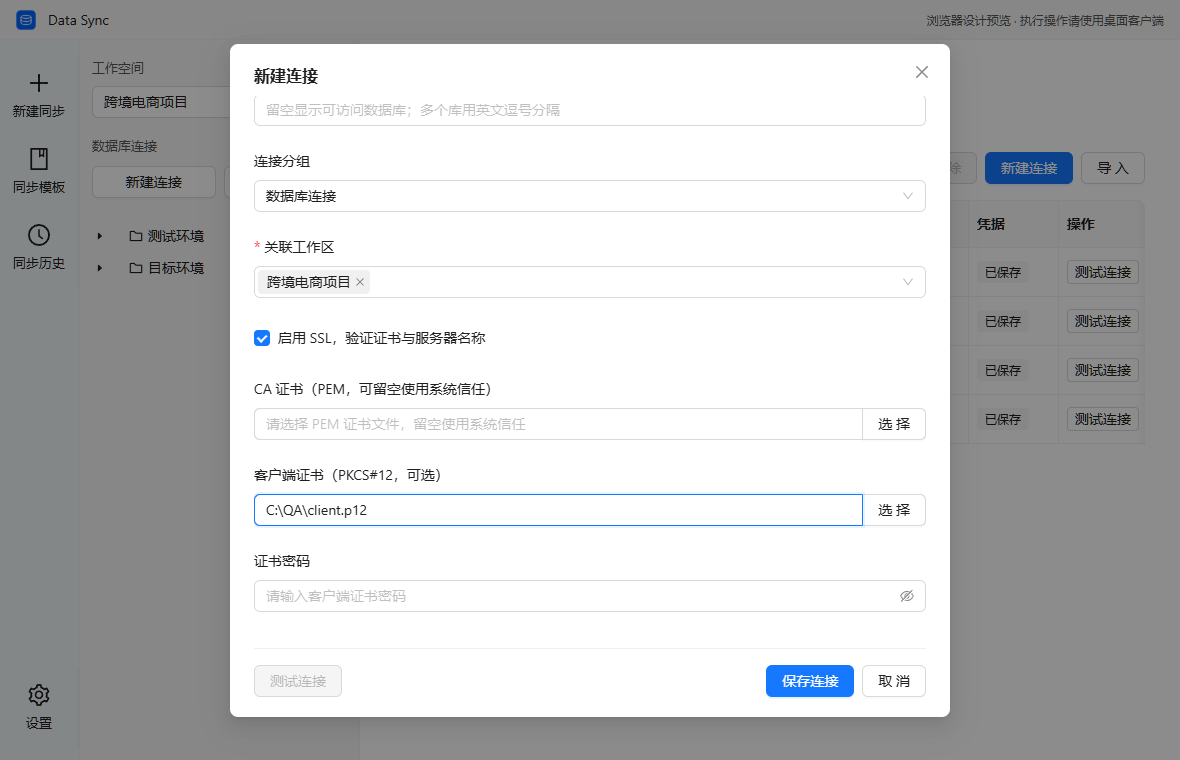
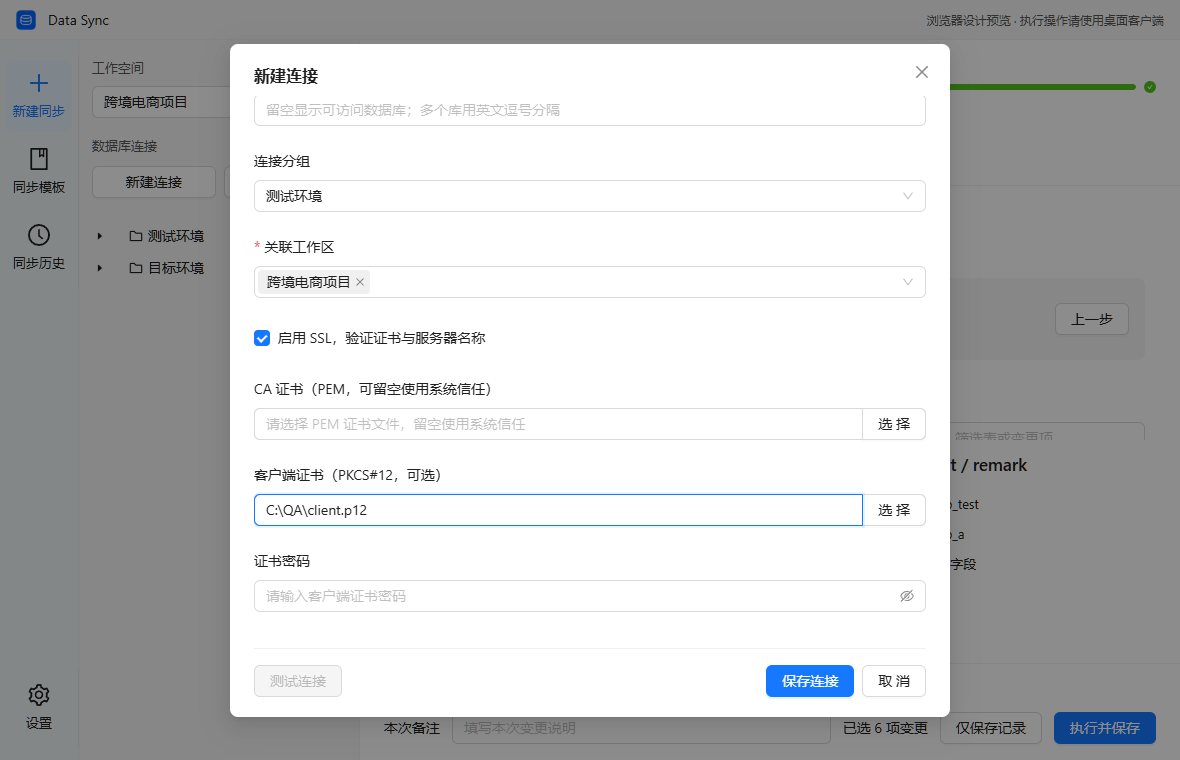
fix(ui): keep connection forms in place

diff --git a/desktop/src/controller.test.tsx b/desktop/src/controller.test.tsx
@@ -12,6 +12,7 @@ import {
   initialModel,
   selection,
   type TreeNode,
+  type Page,
 } from './model';
 import { previewPlan, previewTable } from './preview';
 import { DiffPage, ScopePage } from './pages/Sync';
@@ -167,6 +168,133 @@ afterEach(() => {
   cleanup();
   vi.restoreAllMocks();
   vi.unstubAllGlobals();
+});
+
+it.each<Page>(['scope', 'diff', 'history', 'settings'])(
+  'creates connections in place on %s through cancel, failed save and successful save',
+  async (page) => {
+    await ready();
+    act(() => {
+      controller.set('page', page);
+      controller.set('sourceKey', 'source/a');
+      controller.set('scopeRemark', '保留同步草稿');
+      controller.editConnection();
+    });
+    expect(controller.m.page).toBe(page);
+    expect(controller.m.connectionForm.group).toBe('测试');
+    await userEvent.click(
+      within(screen.getByRole('dialog', { name: '新建连接' })).getByRole('button', {
+        name: /^取\s*消$/,
+      }),
+    );
+    expect(controller.m.page).toBe(page);
+    act(() => {
+      controller.editConnection();
+      controller.patch('connectionForm', { name: '新连接', user: 'tester' });
+    });
+    bridge.invoke.mockRejectedValueOnce(new Error('保存失败'));
+    await act(async () => controller.saveConnection());
+    expect(controller.m.page).toBe(page);
+    expect(controller.m.connectionDialog).toBe(true);
+    expect(controller.m.connectionForm.name).toBe('新连接');
+    await act(async () => controller.saveConnection());
+    expect(controller.m.page).toBe(page);
+    expect(controller.m.connectionDialog).toBe(false);
+    expect(controller.m.sourceKey).toBe('source/a');
+    expect(controller.m.scopeRemark).toBe('保留同步草稿');
+  },
+);
+
+it('does not navigate back when a connection save finishes after leaving the source page', async () => {
+  await ready();
+  act(() => {
+    controller.set('page', 'scope');
+    controller.editConnection();
+    controller.patch('connectionForm', { name: '新连接', user: 'tester' });
+  });
+  const pending = deferred<unknown>();
+  bridge.invoke.mockImplementationOnce(() => pending.promise);
+  let save!: ReturnType<Controller['saveConnection']>;
+  act(() => {
+    save = controller.saveConnection();
+    controller.navigate('history');
+  });
+  await act(async () => {
+    pending.resolve({ ok: true });
+    await save;
+  });
+  expect(controller.m.page).toBe('history');
+  expect(controller.m.connectionDialog).toBe(false);
+});
+
+it('does not offer a deleted default group after reopening a connection form', async () => {
+  state.connectionGroups = [
+    { id: 'default-group', name: '数据库连接', sortOrder: 0 },
+    { id: 'other-group', name: '测试', sortOrder: 1 },
+  ];
+  await ready();
+  const normal = bridge.invoke.getMockImplementation()!;
+  bridge.invoke.mockImplementation(async (method, params) => {
+    if (method === 'connectionGroups.delete') {
+      state.connectionGroups = state.connectionGroups.filter(
+        (group) => group.id !== params.groupId,
+      );
+      return { ok: true };
+    }
+    return normal(method, params);
+  });
+  let removal!: ReturnType<Controller['removeGroup']>;
+  act(() => {
+    removal = controller.removeGroup('default-group');
+  });
+  await userEvent.click(
+    within(await screen.findByRole('dialog', { name: '删除分组' })).getByRole('button', {
+      name: /^删\s*除$/,
+    }),
+  );
+  await act(async () => {
+    await removal;
+    controller.editConnection();
+  });
+  expect(controller.m.connectionForm.group).toBe('测试');
+  await userEvent.click(screen.getByRole('combobox', { name: '连接分组' }));
+  expect(document.querySelector('.ant-select-dropdown')?.textContent).not.toContain('数据库连接');
+  act(() => {
+    controller.closeConnection();
+    controller.editConnection(undefined, '数据库连接');
+  });
+  expect(controller.m.connectionForm.group).toBe('测试');
+});
+
+it('leaves an empty group selection and blocks implicit group recreation until one is added', async () => {
+  state.connections = [];
+  await ready();
+  act(() => {
+    controller.editConnection();
+    controller.patch('connectionForm', { name: '新连接', user: 'tester' });
+  });
+  expect(controller.m.connectionForm.group).toBe('');
+  expect(screen.getByText('请选择连接分组')).toBeTruthy();
+  await act(async () => controller.saveConnection());
+  expect(bridge.invoke.mock.calls.some(([method]) => method === 'entity.save')).toBe(false);
+  expect(controller.m.connectionDialog).toBe(true);
+  const normal = bridge.invoke.getMockImplementation()!;
+  bridge.invoke.mockImplementation(async (method, params) => {
+    if (method === 'connectionGroups.save') {
+      const group = { id: 'new-group', name: params.name, sortOrder: 0 };
+      state.connectionGroups.push(group);
+      return group;
+    }
+    return normal(method, params);
+  });
+  await act(async () => controller.addConnectionGroup('新分组'));
+  expect(controller.m.connectionForm.group).toBe('新分组');
+  expect(controller.m.connectionForm.name).toBe('新连接');
+  await act(async () => controller.saveConnection());
+  expect(bridge.invoke).toHaveBeenCalledWith('entity.save', {
+    kind: 'connection',
+    value: expect.objectContaining({ group: '新分组' }),
+  });
 });
 
 it('blocks deletion of a group occupied only in another workspace', async () => {
@@ -917,6 +1045,7 @@ describe('React business state and protocol', () => {
   });
   it('assigns a stable id to a connection saved directly from the empty management page and invalidates old tree responses', async () => {
     await ready();
+    act(() => controller.editConnection());
     act(() => controller.patch('connectionForm', { name: '新连接', user: 'qa' }));
     await act(async () => {
       await controller.saveConnection();
@@ -3007,7 +3136,7 @@ describe('module-owned operation feedback', () => {
       controller.set('page', 'diff');
       controller.set('sourceKey', 'source/a');
       controller.set('scopeRemark', 'keep draft');
-      controller.editConnection(state.connections[0], undefined, true);
+      controller.editConnection(state.connections[0]);
     });
     expect(controller.m.page).toBe('diff');
     const dialog = screen.getByRole('dialog', { name: '编辑连接' });
@@ -3023,7 +3152,7 @@ describe('module-owned operation feedback', () => {
     await userEvent.click(within(dialog).getByRole('button', { name: /^取\s*消$/ }));
     expect(controller.m.page).toBe('diff');
     expect(controller.m.scopeRemark).toBe('keep draft');
-    act(() => controller.editConnection(state.connections[0], undefined, true));
+    act(() => controller.editConnection(state.connections[0]));
     await act(async () => {
       await controller.saveConnection();
       pending.resolve();

diff --git a/desktop/src/controller.tsx b/desktop/src/controller.tsx
@@ -379,7 +379,9 @@ function useBusinessController() {
           s.state.connections.some((c) => c.id === s.connectionForm.id) &&
           !state.connections.some((c) => c.id === s.connectionForm.id)
             ? emptyConnection(s.workspaceId)
-            : s.connectionForm,
+            : state.connectionGroups.some((group) => group.name === s.connectionForm.group)
+              ? s.connectionForm
+              : { ...s.connectionForm, group: '' },
         sourceKey:
           s.sourceKey && !state.connections.some((c) => c.id === fromKey(s.sourceKey).connectionId)
             ? ''
@@ -1303,14 +1305,17 @@ function useBusinessController() {
       set('workspaceSubmitting', false);
     }
   }
-  function editConnection(c?: ConnectionInfo, group?: string, preservePage = false) {
+  function editConnection(c?: ConnectionInfo, group?: string) {
     connectionEditorGeneration.current += 1;
     const form = c
       ? { ...copyModel(c), password: '', certificatePassword: '' }
       : {
           ...emptyConnection(latest.current.workspaceId),
           id: crypto.randomUUID(),
-          ...(group ? { group } : {}),
+          group:
+            latest.current.state.connectionGroups.find((value) => value.name === group)?.name ||
+            latest.current.state.connectionGroups[0]?.name ||
+            '',
         };
     commit((s) => ({
       ...s,
@@ -1318,7 +1323,6 @@ function useBusinessController() {
       connectionTest: undefined,
       connectionDialog: true,
       databasesText: form.databases.join(', '),
-      page: preservePage ? s.page : 'connections',
     }));
   }
   function closeConnection() {
@@ -1505,6 +1509,8 @@ function useBusinessController() {
         throw new Error('请填写连接名称、服务器、用户并选择工作区');
       const validation = connectionTestError(form);
       if (validation) throw new Error(validation);
+      if (!latest.current.state.connectionGroups.some((group) => group.name === form.group))
+        throw new Error('请选择现有连接分组，或先新增分组');
       await api('entity.save', { kind: 'connection', value: form });
       if (latest.current.connectionForm === s.connectionForm)
         commit((v) => ({

diff --git a/desktop/src/components/ConnectionOrganization.tsx b/desktop/src/components/ConnectionOrganization.tsx
@@ -98,12 +98,8 @@ export function ConnectionGroupSelect() {
       showSearch
       optionFilterProp="label"
       style={{ width: '100%' }}
-      value={m.connectionForm.group}
-      options={[
-        ...new Set([...m.state.connectionGroups.map((g) => g.name), m.connectionForm.group]),
-      ]
-        .filter(Boolean)
-        .map((label) => ({ value: label, label }))}
+      value={m.connectionForm.group || undefined}
+      options={m.state.connectionGroups.map((group) => ({ value: group.name, label: group.name }))}
       onChange={(group) => c.patch('connectionForm', { group })}
       popupRender={(menu) => (
         <>

diff --git a/desktop/src/App.tsx b/desktop/src/App.tsx
@@ -245,7 +245,7 @@ function Shell() {
           const connection = connections.find((item) => item.id === node.connectionId);
           if (!connection) return;
           if (!['test', 'refresh'].includes(key)) closeMenu();
-          if (key === 'edit') c.editConnection(connection, undefined, true);
+          if (key === 'edit') c.editConnection(connection);
           if (key === 'group') c.chooseConnectionGroup(connection);
           if (key === 'test')
             void menuOperation('test', () => c.testConnection(connection, 'tree'));

diff --git a/desktop/src/model.ts b/desktop/src/model.ts
@@ -208,7 +208,7 @@ export const emptyConnection = (workspaceId: string): ConnectionInfo => ({
   host: 'localhost',
   port: 3306,
   user: '',
-  group: '数据库连接',
+  group: '',
   databases: [],
   workspaceIds: [workspaceId],
   ssl: false,

diff --git a/docs/interaction-guidelines.md b/docs/interaction-guidelines.md
@@ -11,7 +11,10 @@
 分组右键菜单提供带危险色图标和文字的“删除分组”。仅允许删除空分组，判断包含所有工作区的连接，
 不只看当前树中可见的连接。有连接时提示先移动连接；空分组确认后提交，取消不修改配置。
 确认按钮跟踪实际请求，失败保留确认框及分组，允许重试。引擎在本地事务内再次检查是否为空。
-默认名称“数据库连接”的分组同样允许为空时删除，后续保存归入该名称的连接会自动创建分组。
+默认名称“数据库连接”的分组同样允许为空时删除。新建连接只从现有分组选择，
+优先使用右键发起新建的分组，否则使用现有顺序中的第一个分组；没有分组时留空，
+需通过下拉框的“新增”创建分组后才能保存。下拉选项不补入默认名称或旧草稿中的已删分组，
+刷新后清除失效分组选择，不因保存新建连接而恢复已删分组。旧配置与导入的分组自动补建兼容逻辑保留。
 
 ## 表格与布局
 
@@ -80,6 +83,14 @@
 - 密码、主机、端口、用户名、SSL、证书、数据库等连接参数改变后清除旧结果。已取消、已修改或已切换工作区的过期响应不能覆盖当前状态。
 - 测试不会保存连接或密码。列表测试使用已保存的凭据，编辑弹窗使用当前填写的参数。
 - 缺少连接名称、服务器地址、用户名，或端口无效时，测试按钮禁用；弹窗还需选择关联工作区。表单字段失焦和保存时执行必填校验，错误显示在字段下面，不能把缺项标记成“连接失败”。预览接口与桌面接口也校验参数，防止绕过按钮直接请求。
+
+## 表单入口与页面导航
+
+- 新建、编辑、导入等入口若用途是打开表单，只在当前页面弹出相应表单或抽屉，不同时切换业务页面。该规则适用于侧栏、工具栏、右键菜单和页面内按钮，包括“新建连接”、编辑连接、新建工作区、新建模板及导入连接。
+- 在新建同步、差异预览、同步历史、设置或其他页面点击“新建连接”时，底层页面保持原位，不跳到连接管理。打开、取消和保存成功后均保留原页面、当前对象、筛选、滚动位置及业务草稿；保存失败保留表单和输入。刷新已保存资源不能触发页面跳转或重置原业务范围。
+- “管理”“管理模板”等明确的导航入口才切换到对应管理页面。需要跳转的特殊业务流程必须在本规范对应流程中明确写出触发条件、目标页面及状态保留方式，并让入口文案或操作结果表达该跳转；未写明的情况遵循只弹表单的默认规则。
+- 公共表单与控制器默认保持当前页面，导航由明确的导航操作负责。不能要求每个调用方额外传入“保留页面”参数才能避免跳转，也不能将来源页面已经切换后的返回操作当作符合本规则。
+- 修改表单入口时，验收从非管理页面打开、取消、保存成功和保存失败的行为，确认底层页面及业务草稿保持；异步完成不得把用户后来切换到的页面拉回管理页或原页面。
 
 ## 编辑表单
 

diff --git a/docs/user-guide.md b/docs/user-guide.md
@@ -8,6 +8,9 @@
 
 连接表单配置分组、服务器、端口、用户名、数据库范围和 SSL。数据库范围留空时列出服务器可访问的数据库，填写后只展示允许的范围。列表提供“测试连接 / 编辑 / 删除”；保存前可用当前填写参数测试，测试本身不保存连接或密码。成功后的版本信息可悬停或键盘聚焦查看，失败原因显示在测试区域，修改连接参数后需要重新测试。
 
+侧栏或分组右键的“新建连接”在当前页面弹出表单，打开、取消和保存后均停留原页并保留原业务草稿。
+只有点击“数据库连接”区域的“管理”才进入连接管理页面；编辑连接同样在当前页打开表单。
+
 密码通过 Windows 系统加密保存，编辑时不回填明文；留空保持已存密码，清除密码选项用于移除。CA 证书验证服务器与主机名，客户端证书接受 PKCS#12，证书路径为本机路径。
 
 会话导入先选择工具与文件，或粘贴 XML／JSON，解析后勾选连接。重复项可跳过、更新或作为新连接导入；更新保留已有工作区关联。Navicat 加密密码与 DataGrip 外部凭据库不解密，需要补充。SSH 配置不能直接迁移为隧道，请使用直连。
@@ -16,7 +19,10 @@
 
 清理无效分组时，右键分组选择“删除分组”，确认后删除。只允许删除空分组；其他工作区有连接也会阻止，
 请先通过连接的“更换分组”移动这些连接。取消不删除，失败显示原因并保留确认框供重试。
-删除分组不删除连接或同步记录。默认“数据库连接”分组为空时也可删除，以后使用该分组保存连接会重新创建。
+删除分组不删除连接或同步记录。默认“数据库连接”分组为空时也可删除，删除后不再出现在新建连接的选项中。
+从分组右键新建时预选该分组，其他入口预选现有顺序中的第一个分组；没有分组时选择留空，
+先通过下拉框的“新增”创建分组再保存连接。需要重新使用已删名称时也通过“新增”显式创建。
+旧配置与会话导入仍保留自动补建分组的兼容行为。
 
 连接表单的输入框和选择框均提供填写提示，包括启用 SSL 后的证书项。
 客户端关闭拼写检查，域名和用户名不会因自然语言词典而出现红色波浪线；实际参数错误仍显示校验提示。

diff --git a/docs/validation.md b/docs/validation.md
@@ -1,5 +1,19 @@
 # 0.1.0 验证记录
 
+## 2026-10-12：连接表单保持原页与删除分组选项
+
+新建连接从差异预览、新建同步、同步历史和设置打开时保持当前页面；取消、保存成功和保存失败均保留原页面及业务草稿。删除分组后，新建连接下拉不再显示已删名称；没有分组时必须通过下拉框显式新增后才能保存，避免保存连接自动恢复已删分组。连接树右键编辑同样不再触发连接管理导航。
+
+实际环境：Windows x64、Node.js 22.22.2、npm 10.9.7、项目 Java 21.0.12.1、Chrome 154.0.8037.98。
+
+- `npm run typecheck`：退出 0。
+- `npm run build`：退出 0；前端与 Electron 构建完成，保留主包大于 500 kB 的既有提示。
+- `npm test`：退出 0；前端 16 文件、176 项通过，引擎 25 项中 23 项通过、2 项真库入口跳过，0 失败／错误。
+- `npm run qa:ui -w desktop`：退出 0；111 项浏览器检查通过，浅色／深色控制台错误 0，覆盖四个页面的新建连接原页保持、取消／保存及已删分组排除。报告见 `docs/react-ui-qa.json`，截图见 `docs/screenshots/react-ant-design/connection-new-in-place-*`。
+- 专项控制器回归：`desktop/src/controller.test.tsx` 110 项通过；覆盖失败保存、迟到保存、空分组和显式新增分组。
+
+未运行三版本 MySQL 真库回归、原生桌面验收、完整打包和干净 Windows 安装验收；本次 UI 使用浏览器虚构数据，不证明真实数据库连接或同步执行。
+
 ## 2026-10-12：回滚详细确认与全部目标脚本
 
 本次仅调整前端确认、档案读取展示与浏览器验收，不改变引擎的比较、执行、恢复或协议。

diff --git a/AGENTS.md b/AGENTS.md
@@ -72,6 +72,7 @@ Data Sync 是按工作区组织的 MySQL 结构与基础数据同步桌面工具
 - 前端与文档遵循 Prettier：单引号、分号、100 字符行宽、尾随逗号。Java 使用 Google Java Format 1.28.0，工具可放在忽略的 `.tools`。
 - UI 保持已确认的白／灰／蓝风格，复用 `DataTable` 和现有组件；支持浅色、深色、跟随系统，不以硬编码浅色背景覆盖深色主题，布局与按钮遵循[交互规范](docs/interaction-guidelines.md)。
 - 编辑草稿与已保存模型分别持有独立副本，接口参数转换为普通 JSON。切换工作区、记录或修改参数后，过期异步响应不得覆盖当前状态。
+- 新建、编辑、导入等表单入口只在当前页面打开弹窗或抽屉，不附带切换到连接管理等业务页面；打开、取消和保存后均保留原页面及其业务草稿。只有明确的导航入口或已在交互规范中写明的特殊业务流程才允许跳转，不能因复用控制器或表单默认跳页；具体规则见[交互规范](docs/interaction-guidelines.md#表单入口与页面导航)。
 - 请求操作跟踪实际 Promise、显示对应加载并防止重复提交；“执行并保存”和“仅保存记录”均先展示实际来源、目标、范围与已选 SQL，确认后提交，取消不创建任务或记录。
 - 比较取消保留真实停止查询、终态核验及旧接口兼容，取消确认前不解锁范围。浏览器预览保留明确提示，并与引擎的范围、风险和阶段规则一致。
 

diff --git a/design-qa.md b/design-qa.md
@@ -1,5 +1,15 @@
 # 设计 QA 记录
 
+## 2026-10-12：新建连接原页弹窗与已删分组排除
+
+在浅色／深色浏览器预览中，从差异预览、新建同步、同步历史和设置打开“新建连接”，
+表单均停留在当前页面；取消和保存后仍保持原页面。删除“数据库连接”后重新打开表单，
+下拉选项不再出现该分组；空分组选择要求通过下拉框的“新增”显式创建。
+
+截图：[差异预览浅色](docs/screenshots/react-ant-design/connection-new-in-place-差异预览-light.png)、
+[设置深色](docs/screenshots/react-ant-design/connection-new-in-place-设置-dark.png)。
+完整检查见[验证记录](docs/validation.md)。
+
 ## 2026-10-12：回滚确认与全目标记录脚本
 
 回滚确认复用同步确认布局，展示原同步来源、实际回滚目标、连接名、地址和端口、
